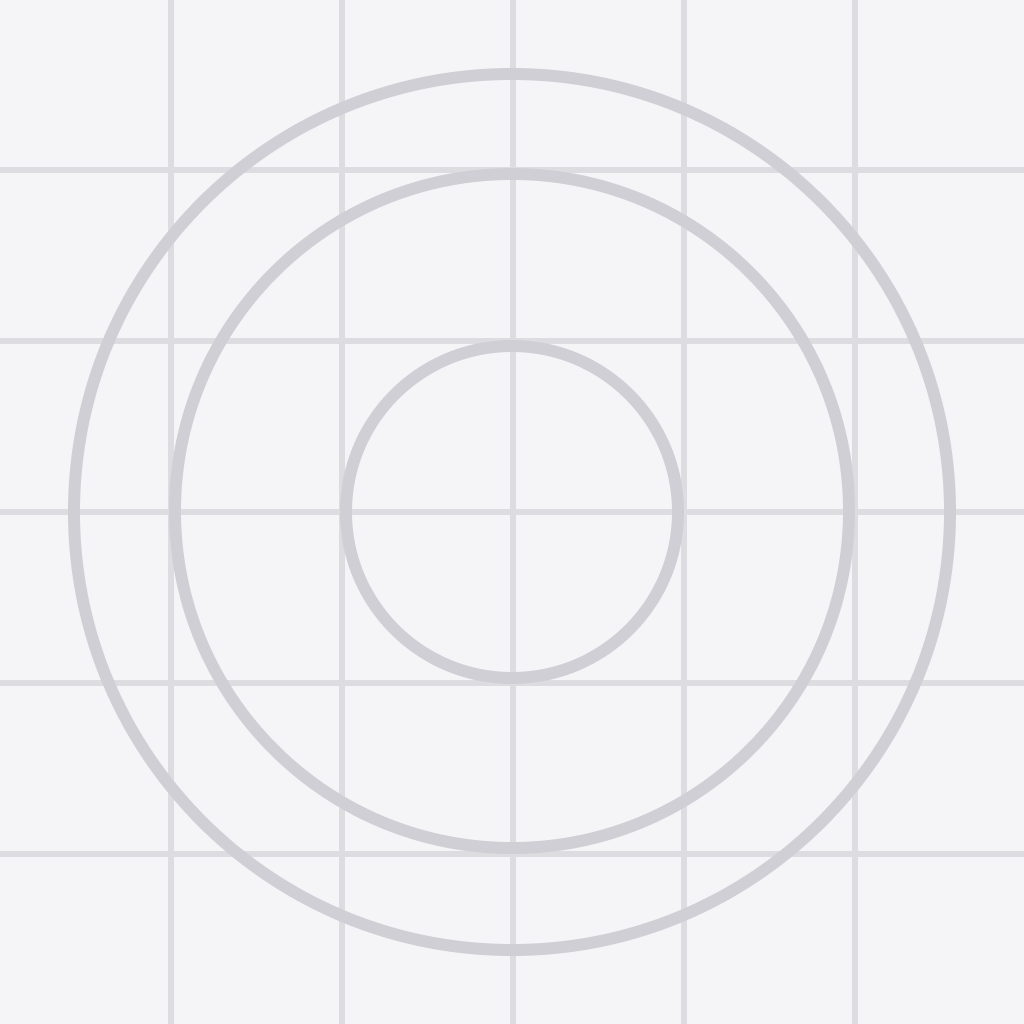
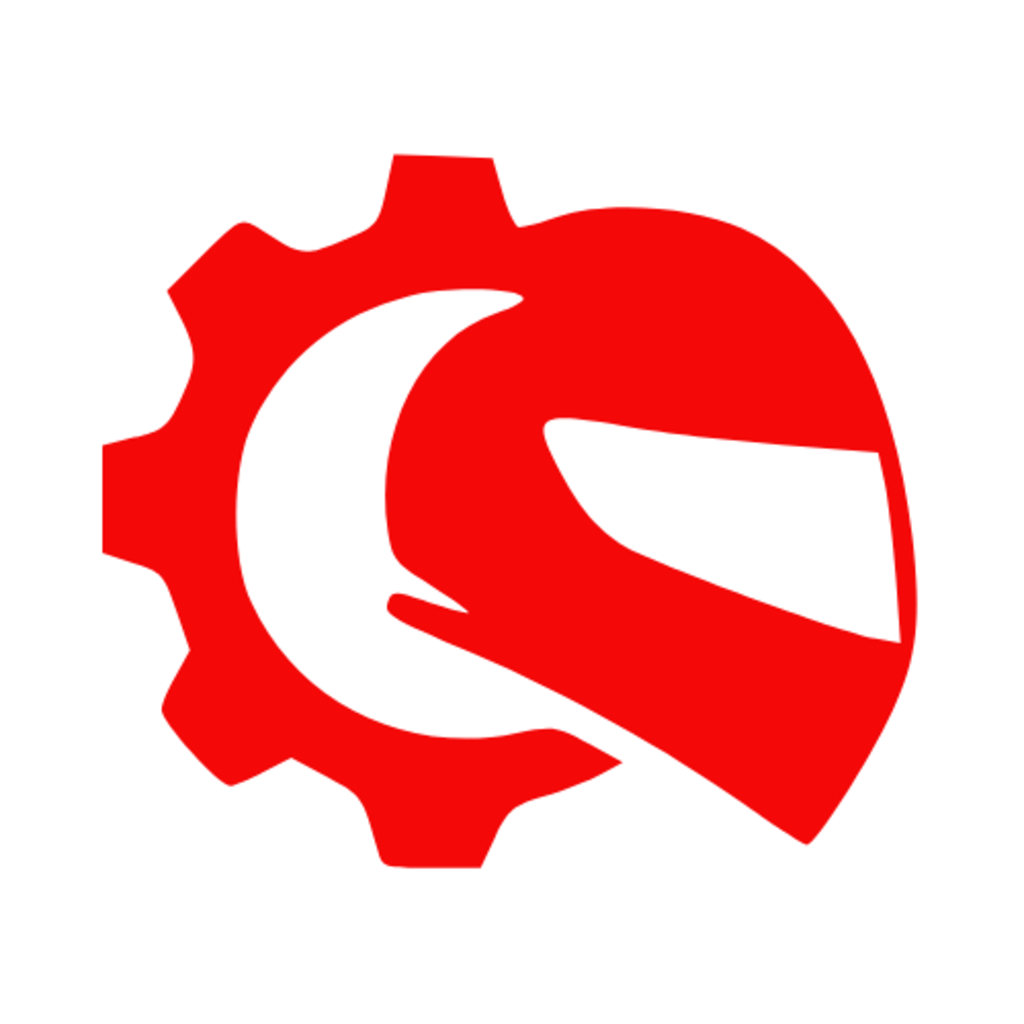
feat(share): améliorer le message de partage avec l'auteur et un extrait

diff --git a/src/components/feed/usePosts.ts b/src/components/feed/usePosts.ts
@@ -129,10 +129,16 @@ export function usePosts(initialPostId?: number) {
       // 1) Ouvrir la popup native de partage EN PREMIER — rien ne doit l'empêcher.
       // Lien public (App/Universal Link) : ouvre l'app sur le post si installée.
       const postLink = `${ENV.webUrl}/post/${postId}`;
-      const message = target.body ? `${target.body}\n\n${postLink}` : postLink;
+      const author = target.author.username;
+      const snippet = target.body?.trim();
+      // Message lisible et signé GearConnect (la prévisualisation riche viendra
+      // de la page web /post/:id avec ses balises Open Graph).
+      const message = snippet
+        ? `« ${snippet} »\n\n— ${author} sur GearConnect 🏁\n${postLink}`
+        : `Découvre ce post de ${author} sur GearConnect 🏁\n${postLink}`;
       let result: Awaited<ReturnType<typeof Share.share>>;
       try {
-        result = await Share.share({ message });
+        result = await Share.share({ message, title: 'GearConnect' });
       } catch {
         Alert.alert('Erreur', 'Impossible d’ouvrir le partage.');
         return;